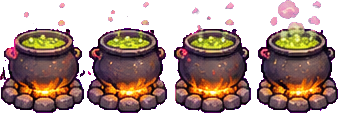
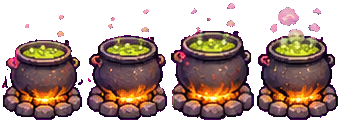
WIP c14bf/p2 04:26: P2 register_strip: bonfire and bubbling pot bases hold still

diff --git a/tools/register_strip.py b/tools/register_strip.py
@@ -1,0 +1,129 @@
+#!/usr/bin/env python3
+"""C14b P2 (c14b_04-02): register a mis-registered animation strip.
+
+Fire/cook strips were drawn as separate renders, so the static base (stones,
+barrel, pot) changes size and position every frame and the whole prop jitters.
+For each frame this finds the base (opaque pixels in the lower 40 % of the
+cell), scales the frame so the base has the median width, and pastes it with
+the base bottom-centre on the cell's bottom-centre. The cell grows in height
+if a scaled frame needs it (bottom-anchored props keep their feet). The strip
+is rewritten rm-then-write and its manifest cell_h/h updated.
+
+  python3 tools/register_strip.py props/bonfire props/fire_barrel2 ...
+  python3 tools/register_strip.py --check props/bonfire   (exit 1 if base width/x differ > 1 px)
+"""
+import json
+import os
+import sys
+
+from PIL import Image
+
+ROOT = os.path.dirname(os.path.dirname(os.path.abspath(__file__)))
+MAN = os.path.join(ROOT, "art", "gen", "manifest.json")
+DEFAULT = ["props/bonfire", "furniture/bubbling_pot"]  # fire_barrel2/lamp_mechanism frames are different drawings: art queue
+
+
+def base_box(cell):
+    w, h = cell.size
+    y0 = int(h * 0.6)
+    a = cell.split()[3].crop((0, y0, w, h)).point(lambda v: 255 if v > 128 else 0)
+    bb = a.getbbox()
+    if not bb:
+        return None
+    return bb[0], bb[2], bb[3] + y0  # x0, x1, bottom
+
+
+def frames_of(e, im):
+    cw, ch, n = e["cell_w"], e["cell_h"], e.get("frames", 1)
+    return [im.crop((f * cw, 0, (f + 1) * cw, ch)) for f in range(n)]
+
+
+def spread(cells):
+    bs = [base_box(c) for c in cells]
+    bs = [b for b in bs if b]
+    if not bs:
+        return 0, 0
+    ws = [b[1] - b[0] for b in bs]
+    cs = [(b[0] + b[1]) / 2 for b in bs]
+    return max(ws) - min(ws), max(cs) - min(cs)
+
+
+def register(gid, man, write=True):
+    g, n = gid.split("/", 1)
+    e = man[g][n]
+    path = os.path.join(ROOT, "art", "gen", e["file"])
+    im = Image.open(path).convert("RGBA")
+    cells = frames_of(e, im)
+    boxes = [base_box(c) for c in cells]
+    widths = sorted(b[1] - b[0] for b in boxes if b)
+    target = widths[len(widths) // 2]
+    cw, ch = e["cell_w"], e["cell_h"]
+    out_cells = []
+    need_h = ch
+    for c, b in zip(cells, boxes):
+        if not b:
+            out_cells.append((c, 0, 0))
+            continue
+        s = target / max(1, b[1] - b[0])
+        if abs(s - 1.0) < 0.02:
+            s = 1.0
+        sc = c if s == 1.0 else c.resize((max(1, round(cw * s)), max(1, round(ch * s))), Image.LANCZOS)
+        bx = ((b[0] + b[1]) / 2) * s
+        by = b[2] * s
+        need_h = max(need_h, int(round(by)) + 0)
+        out_cells.append((sc, bx, by))
+    cw2 = cw
+    ch2 = max(ch, need_h)
+    strip = Image.new("RGBA", (cw2 * len(cells), ch2), (0, 0, 0, 0))
+    for i, (sc, bx, by) in enumerate(out_cells):
+        if bx == 0 and by == 0:
+            strip.alpha_composite(sc, (i * cw2, ch2 - sc.height))
+            continue
+        x = int(round(cw2 / 2 - bx))
+        y = int(round(ch2 - by))
+        tile = Image.new("RGBA", (cw2, ch2), (0, 0, 0, 0))
+        tile.alpha_composite(sc, (0, 0)) if False else tile.paste(sc, (x, y), sc)
+        # clean LANCZOS halos: hard alpha like the rest of the art
+        a = tile.split()[3].point(lambda v: 255 if v > 110 else 0)
+        tile.putalpha(a)
+        strip.alpha_composite(tile, (i * cw2, 0))
+    if write:
+        os.remove(path)  # art files are hardlinked across worktrees: never write in place
+        strip.save(path)
+        e["cell_h"] = ch2
+        e["h"] = ch2
+        e["registered"] = True
+    return spread(frames_of(e, strip) if write else [strip.crop((i * cw2, 0, (i + 1) * cw2, ch2)) for i in range(len(cells))])
+
+
+def main():
+    args = sys.argv[1:]
+    check = "--check" in args
+    ids = [a for a in args if not a.startswith("--")] or DEFAULT
+    man = json.load(open(MAN))
+    bad = 0
+    for gid in ids:
+        g, n = gid.split("/", 1)
+        e = man[g][n]
+        if check:
+            im = Image.open(os.path.join(ROOT, "art", "gen", e["file"])).convert("RGBA")
+            dw, dx = spread(frames_of(e, im))
+            ok = dw <= 2 and dx <= 1.5
+            bad += 0 if ok else 1
+            print("%s base width spread %d px, centre spread %.1f px %s" % (gid, dw, dx, "ok" if ok else "BAD"))
+            continue
+        if e.get("registered"):
+            print(gid, "already registered")
+            continue
+        dw, dx = register(gid, man)
+        print("%s registered: base width spread %d px, centre spread %.1f px, cell_h %d" % (gid, dw, dx, e["cell_h"]))
+    if not check:
+        txt = json.dumps(man, indent=1) + "\n"  # keep the manifest's own key order (no reshuffle diff)
+        os.remove(MAN)  # rm-then-write, like every art file
+        with open(MAN, "w") as f:
+            f.write(txt)
+    sys.exit(1 if bad else 0)
+
+
+if __name__ == "__main__":
+    main()
